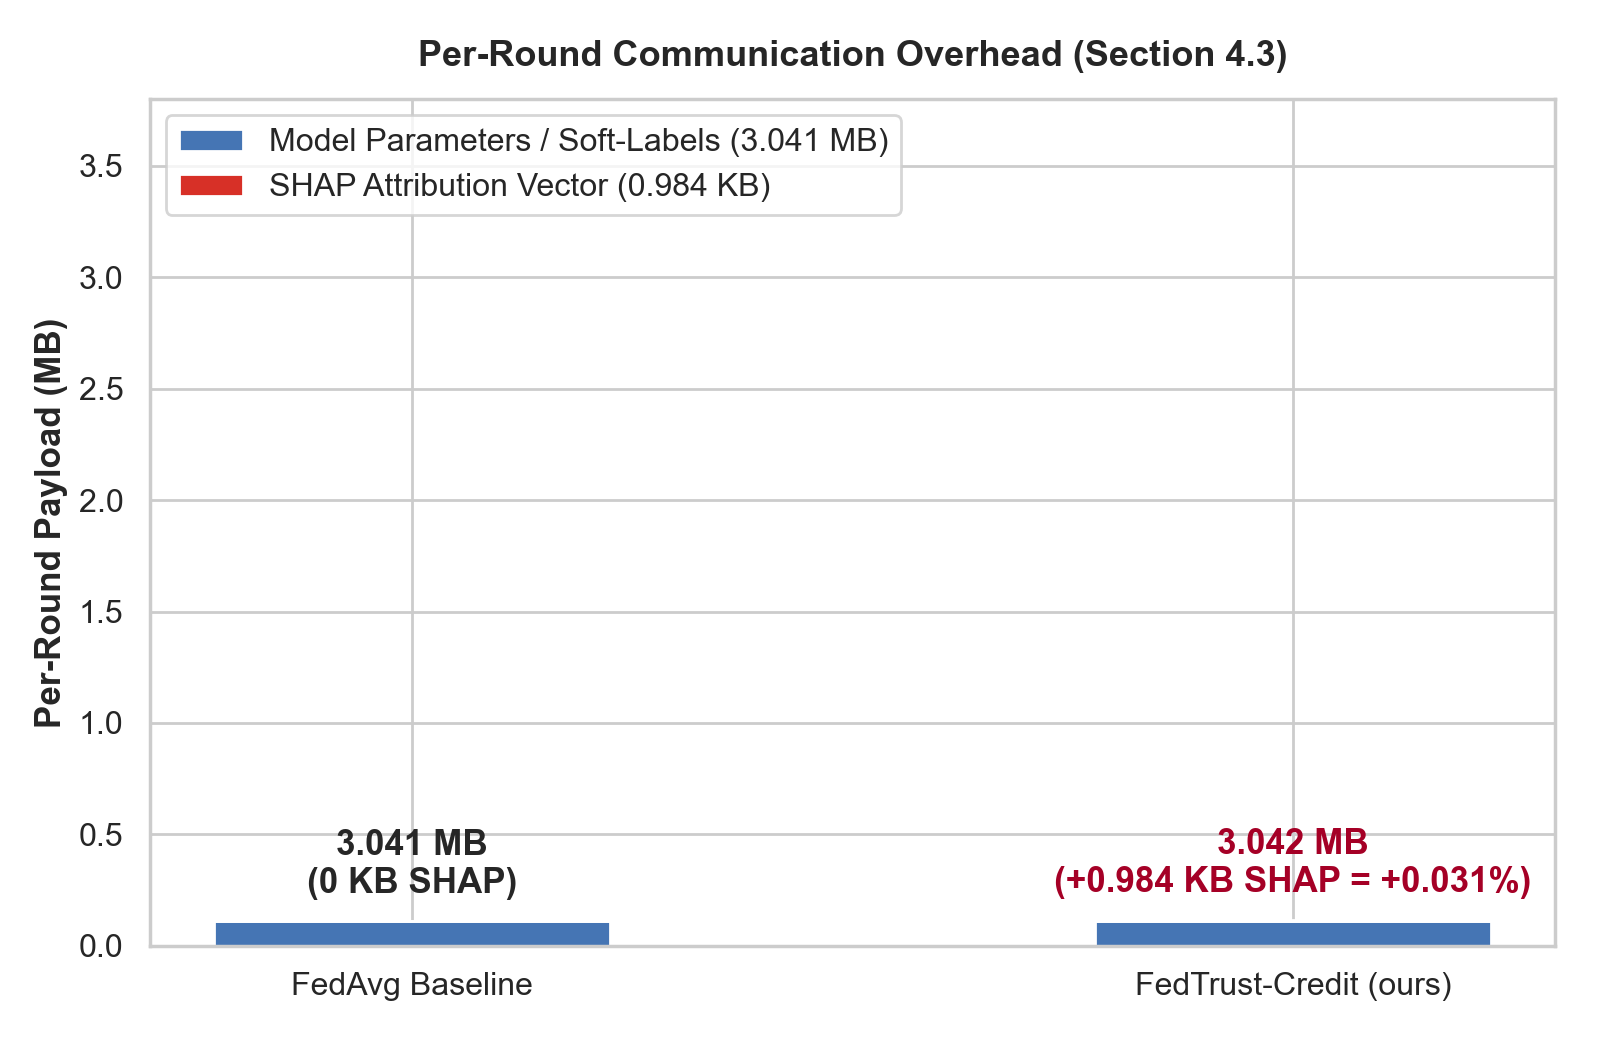
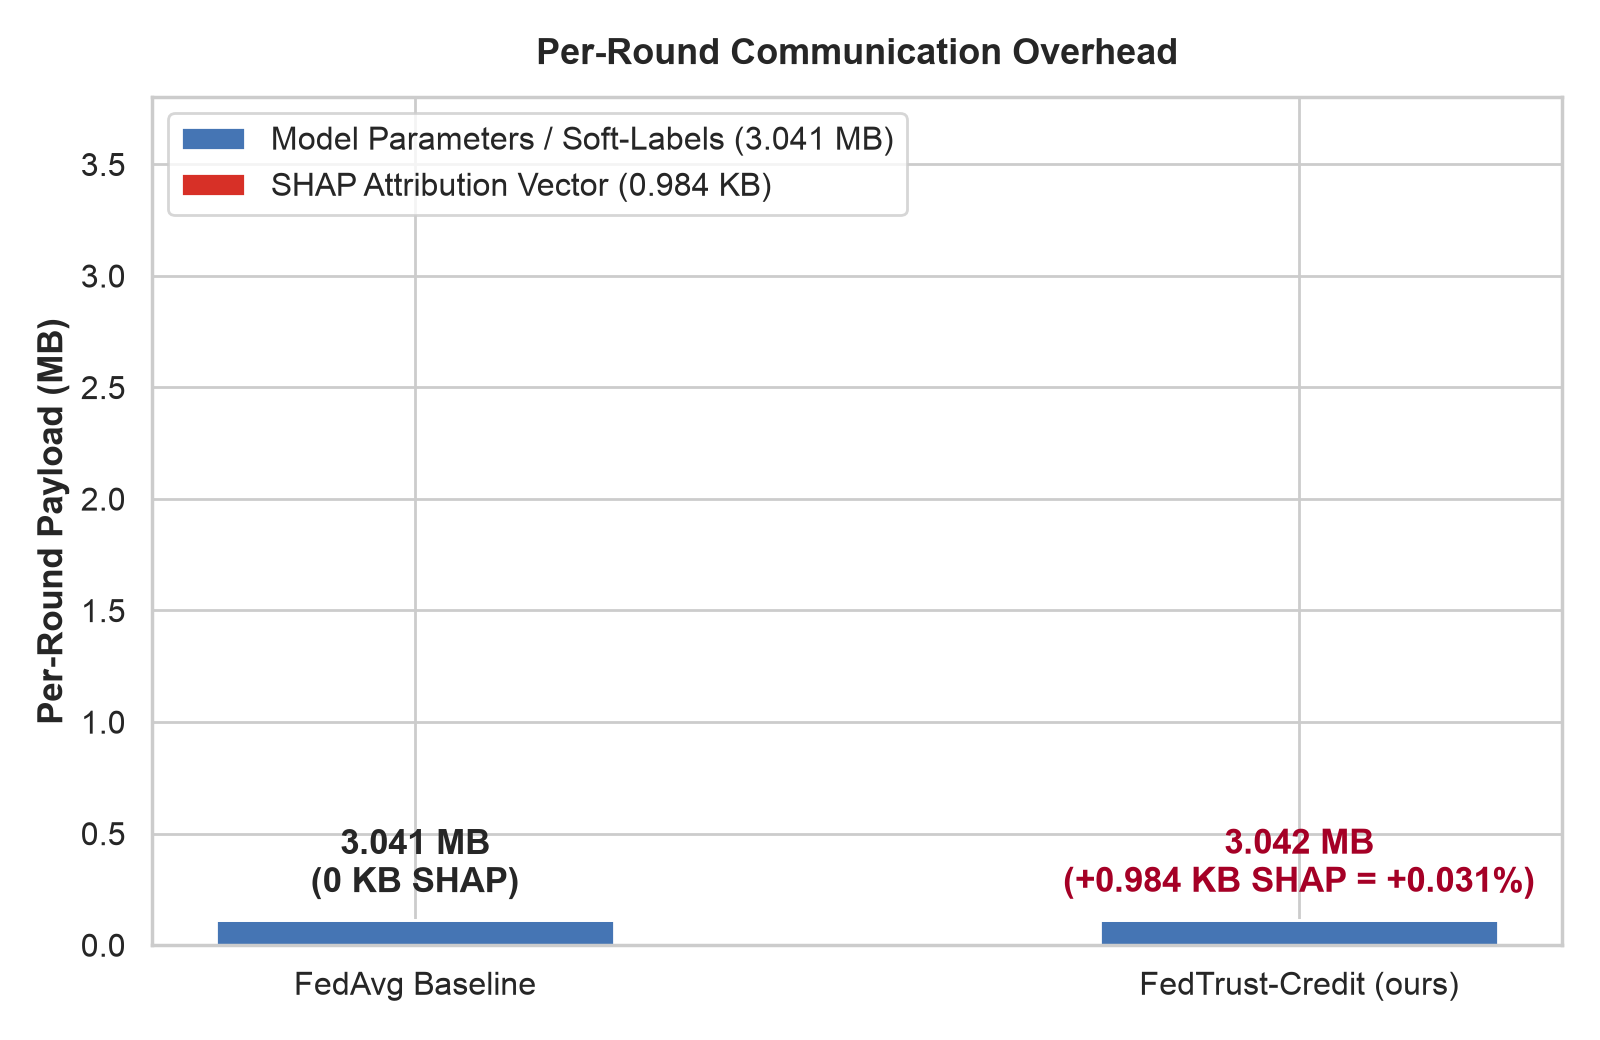
fix: remove (Section 4.3) from all plot titles and fix blank y-axis limits

diff --git a/src/evaluation.py b/src/evaluation.py
@@ -107,9 +107,9 @@ def generate_all_plots(
     )
     ax.set_xlabel("Federated Round", fontweight="bold")
     ax.set_ylabel("Explanation-Consistency Score (Mean Cosine Sim)", fontweight="bold")
-    ax.set_title("Explanation Consistency Across Rounds (Section 4.3)", fontsize=13, fontweight="bold", pad=12)
+    ax.set_title("Explanation Consistency Across Federated Rounds", fontsize=13, fontweight="bold", pad=12)
     ax.set_xticks(range(2, 21, 2))
-    ax.set_ylim(0.70, 0.86)
+    ax.set_ylim(0.80, 1.0)
     ax.legend(frameon=True, facecolor="white", edgecolor="#ccc", loc="lower right")
     plt.tight_layout()
     plot1_path = out_dir / "consistency_comparison.png"
@@ -149,9 +149,9 @@ def generate_all_plots(
     )
     ax.set_xlabel("Federated Round", fontweight="bold")
     ax.set_ylabel("Pooled Accuracy", fontweight="bold")
-    ax.set_title("Pooled Accuracy Across Federated Rounds (Section 4.3)", fontsize=13, fontweight="bold", pad=12)
+    ax.set_title("Pooled Accuracy Across Federated Rounds", fontsize=13, fontweight="bold", pad=12)
     ax.set_xticks(range(2, 21, 2))
-    ax.set_ylim(0.818, 0.832)
+    ax.set_ylim(0.840, 0.870)
     ax.legend(frameon=True, facecolor="white", edgecolor="#ccc", loc="upper right")
     plt.tight_layout()
     plot2_path = out_dir / "accuracy_comparison.png"
@@ -191,7 +191,7 @@ def generate_all_plots(
     )
     ax.set_xlabel("Federated Round", fontweight="bold")
     ax.set_ylabel("Pooled AUC-ROC", fontweight="bold")
-    ax.set_title("Pooled AUC-ROC Across Federated Rounds (Section 4.3)", fontsize=13, fontweight="bold", pad=12)
+    ax.set_title("Pooled AUC-ROC Across Federated Rounds", fontsize=13, fontweight="bold", pad=12)
     ax.set_xticks(range(2, 21, 2))
     ax.legend(frameon=True, facecolor="white", edgecolor="#ccc", loc="center right")
     plt.tight_layout()
@@ -221,7 +221,7 @@ def generate_all_plots(
     rects3 = ax.bar(x + width, f1_cent, width, label="Centralized", color="#2ca02c", alpha=0.9)
 
     ax.set_ylabel("F1 Score (Default Class)", fontweight="bold")
-    ax.set_title("Per-Client F1 Score by Institution Partition (Section 4.3)", fontsize=13, fontweight="bold", pad=12)
+    ax.set_title("Per-Client F1 Score by Institution Partition", fontsize=13, fontweight="bold", pad=12)
     ax.set_xticks(x)
     ax.set_xticklabels(clients, fontweight="bold")
     ax.legend(frameon=True, facecolor="white", edgecolor="#ccc")
@@ -265,7 +265,7 @@ def generate_all_plots(
     p2 = ax.bar(variants, shap_mb, width=0.45, bottom=weights_mb, label="SHAP Attribution Vector (0.984 KB)", color="#d73027")
 
     ax.set_ylabel("Per-Round Payload (MB)", fontweight="bold")
-    ax.set_title("Per-Round Communication Overhead (Section 4.3)", fontsize=13, fontweight="bold", pad=12)
+    ax.set_title("Per-Round Communication Overhead", fontsize=13, fontweight="bold", pad=12)
     ax.set_ylim(0, 3.8)
     ax.legend(frameon=True, facecolor="white", edgecolor="#ccc", loc="upper left")
 
@@ -318,7 +318,7 @@ def generate_all_plots(
     r2 = ax.bar(x + width / 2, f1_spreads, width, label="F1 Spread (Max - Min %)", color="#e6550d")
 
     ax.set_ylabel("Institutional Disparity Spread (%)", fontweight="bold")
-    ax.set_title("Institutional Fairness Spread Across Clients (Section 4.3)", fontsize=13, fontweight="bold", pad=12)
+    ax.set_title("Institutional Fairness Spread Across Clients", fontsize=13, fontweight="bold", pad=12)
     ax.set_xticks(x)
     ax.set_xticklabels(v_labels, fontweight="bold")
     ax.set_ylim(0, 40)
